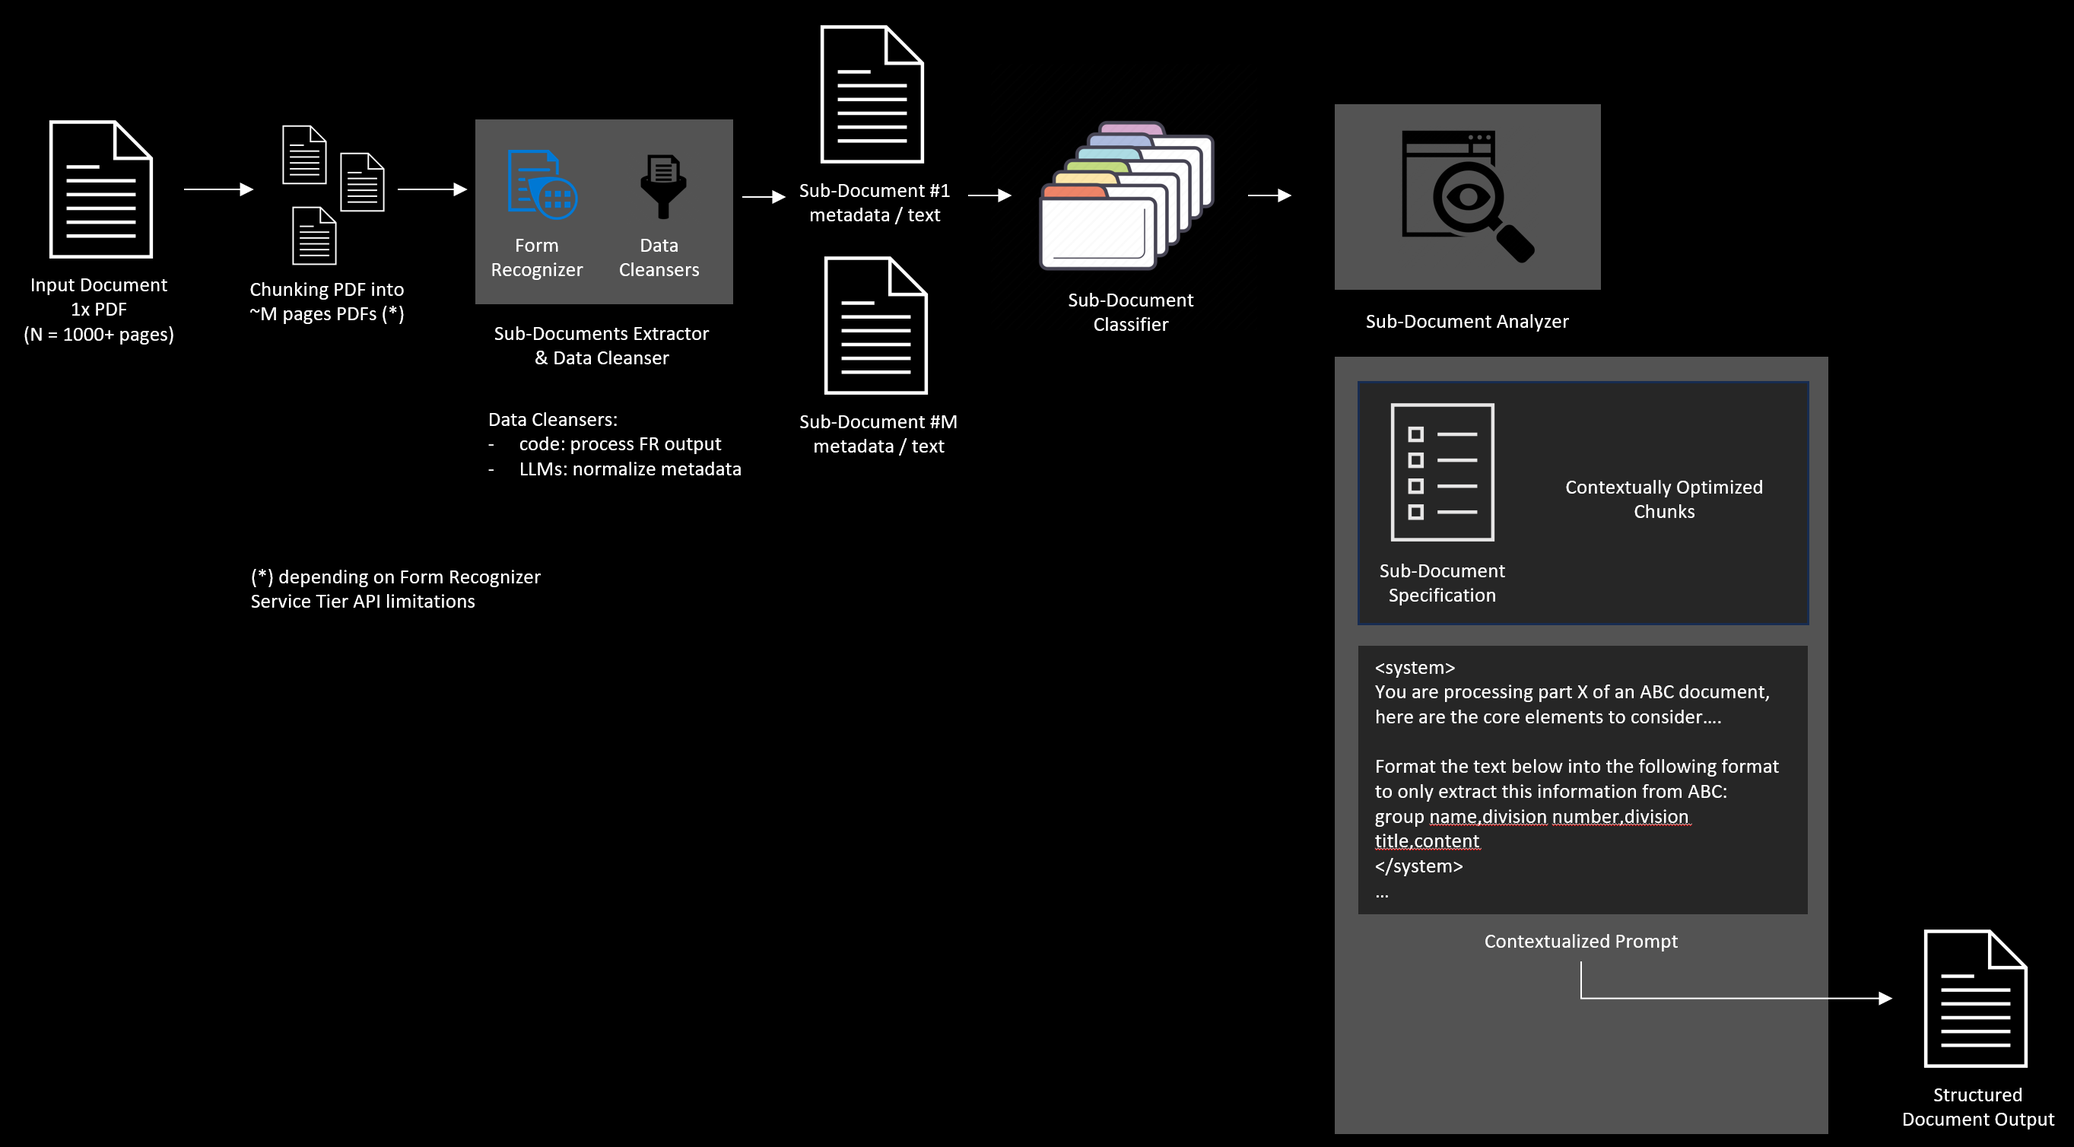
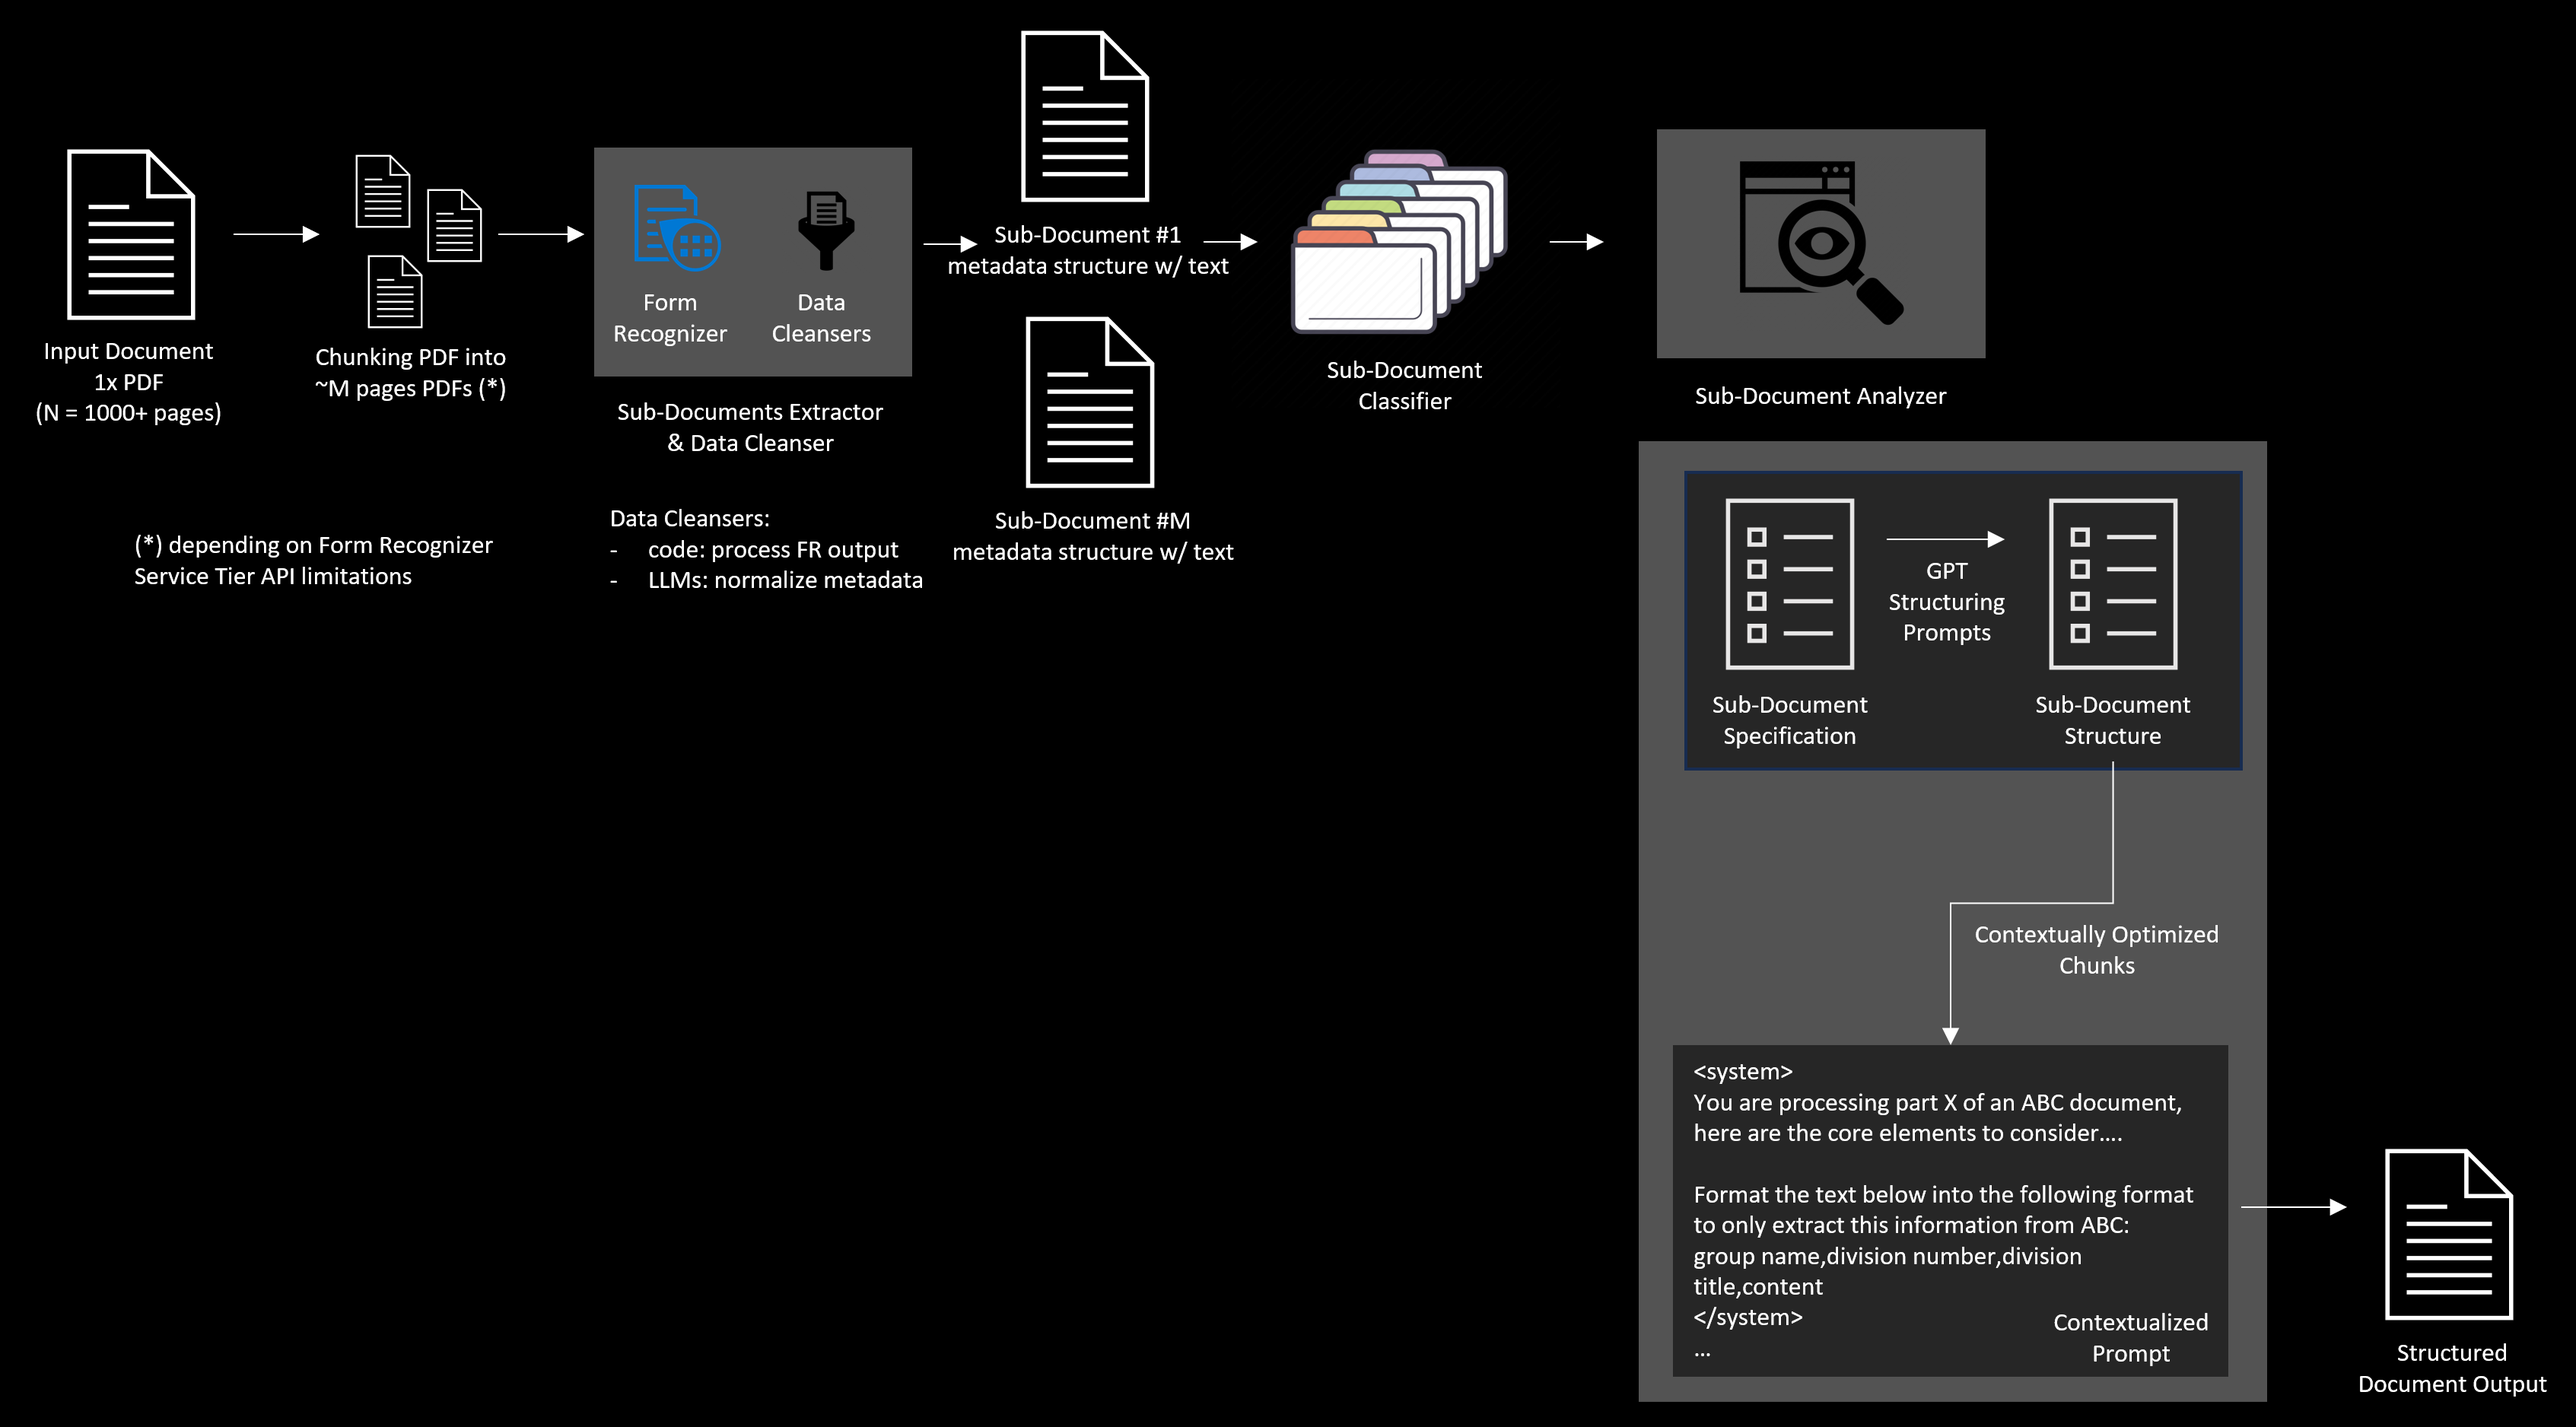
extra doc to reflect approach and state of code

diff --git a/src/extract.py b/src/extract.py
@@ -212,7 +212,6 @@ if __name__ == '__main__':
 		process_pdf(documents_folder_name, document_pdf_file_name)
 	
 	# process text to extract structured spec output
-	if False:
-		document_text_file_names = [f for f in os.listdir(documents_folder_name) if f.endswith(".txt")]
-		for document_text_file_name in document_text_file_names:
-			process_text(documents_folder_name, document_text_file_name)
+	document_text_file_names = [f for f in os.listdir(documents_folder_name) if f.endswith(".txt")]
+	for document_text_file_name in document_text_file_names:
+		process_text(documents_folder_name, document_text_file_name)

diff --git a/README.md b/README.md
@@ -4,6 +4,37 @@
 
 Pattern to process parts of a large PDF document into a predefined specific structured format. The source document is expected to be a combination of 1 to N different sub-documents, some of which may need to be processed to generate a specific target structured output.
 
+## Approach
+
+This sample script illustrates the overall concept of the architecture below. It is by no means complete but provides basic validation that this approach has potential.
+
+The overall tactic here is to bring enough structure understanding to the document to do the most contextually accurate chunking to extract (summarize) specific parts of a document with potnetially customized prompts for each section/part of a document. It's a generic approach which could support multiple use cases for which the source is a large losely formatted document.
+
+One recommendation would be to build as the document structure gets processed a JSON representation of it's structure and store it in a DB like CosmosDB (SQL API) which would then provide easy query capabilities to discover sections/parts of the docs and ask for specific chunks.
+
+Consider a mapping of document section/part type to optimized prompts to process each section (some prompts could be related to entity extractions for instance, some could check against regulations, others reformat content to feed into another system API, etc.)
+
+Demonstrated here:
+- Layout API of Form Recognizer (aka FR) to do OCR + Layout analysis and identify based on location on page where document headings are
+- some basic parsing code to extract 'section' related info. This is a good candidate for a prompt based approach for a more lose and reliable extraction and where passing the context about the doc format (Ex CSI MasterFormat section codes) would be appropriate.
+- Using GPT to take a rough cut of what all paragraphs may be (based on length of line extracted) and asking it to 'fix' the layout by doing automatic pattern detection of heading formats + other formatting
+- using prompts to format to a desired output format
+
+Missing in the implementation:
+- keeping track of text location and structure into an actual JSON structure
+- querying the JSON structure to extract specific sections and then assigning to the right prompt to get the proper desired extraction
+- document classifier: could most likely build a simple model with LLMs (describe what doc is about, send first 2 pages and classify) or use embeddings to match first paragraphs against expected doc content (cheaper approach and may be as accurate)
+
+To be considered for extra accuracy:
+- system doing analysis of entire document structure and presenting to user to identify issues
+- user chatting with system to describe issues and asking to optimize this doc 'index'
+- system using default prompt for a section and showcasing output + getting feedback as far as issues / accuracies and re-writing its own prompt to tune to desired effect
+- then apply this to entire document
+
+To be considered for cost optimizations:
+- FR Read API to detect header/footer and chunk out this data from core document data
+- FR Layout API used only on first 2 pages of relevant docs to extract sectionHeading 'candidates' and then ask GPT to build a pattern for these headers, then use that on truncated lines of all extracted content to extract core document structure
+
 ## Architecture Overview
 
 ![assets/architecture.png](assets/architecture.png)
@@ -12,9 +43,9 @@ Pattern to process parts of a large PDF document into a predefined specific stru
 
 1. Create a 'documents' directory in the root level of this repository and place the PDFs you want to extract in that folder.
 
-2. Copy the documents_formats/*.template files and customize them as .txt files.
+2. Optional: Copy the documents_formats/*.template files and customize them as .txt files (one version already available for CSI MasterFormat use case)
 
-3. Copy the prompts/*.template files and customize them as .txt
+3. Optional: Copy the prompts/*.template files and customize them as .txt (one version already available for CSI MasterFormat use case)
 
 4. Copy src/.env.template to src/.env and update the values to match your environment.
 
